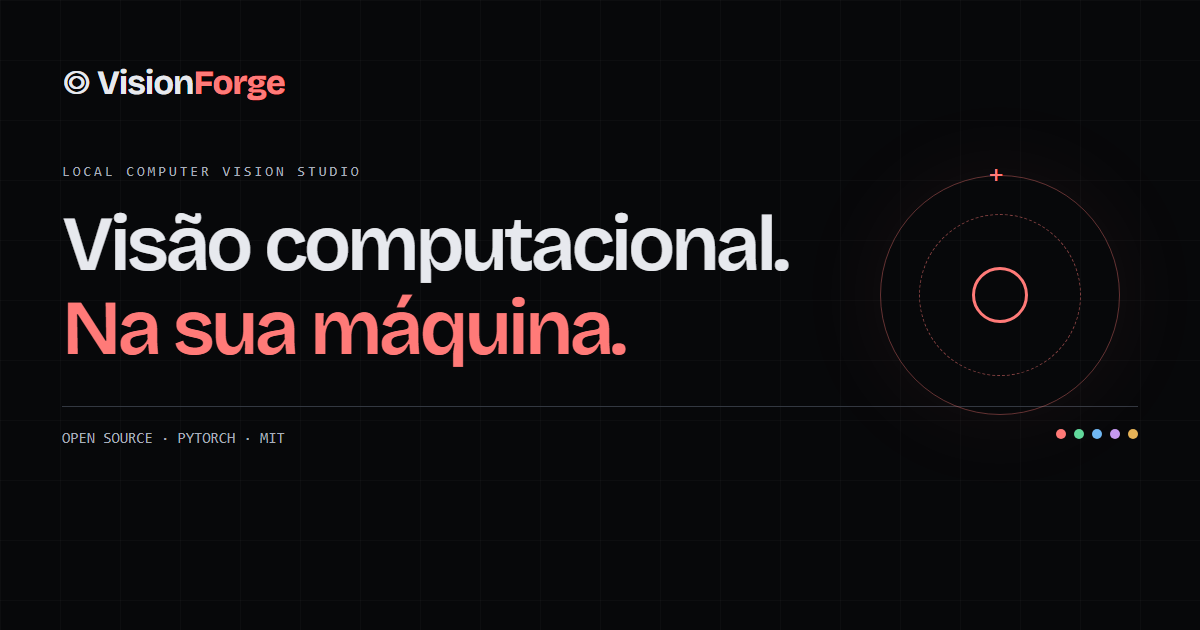
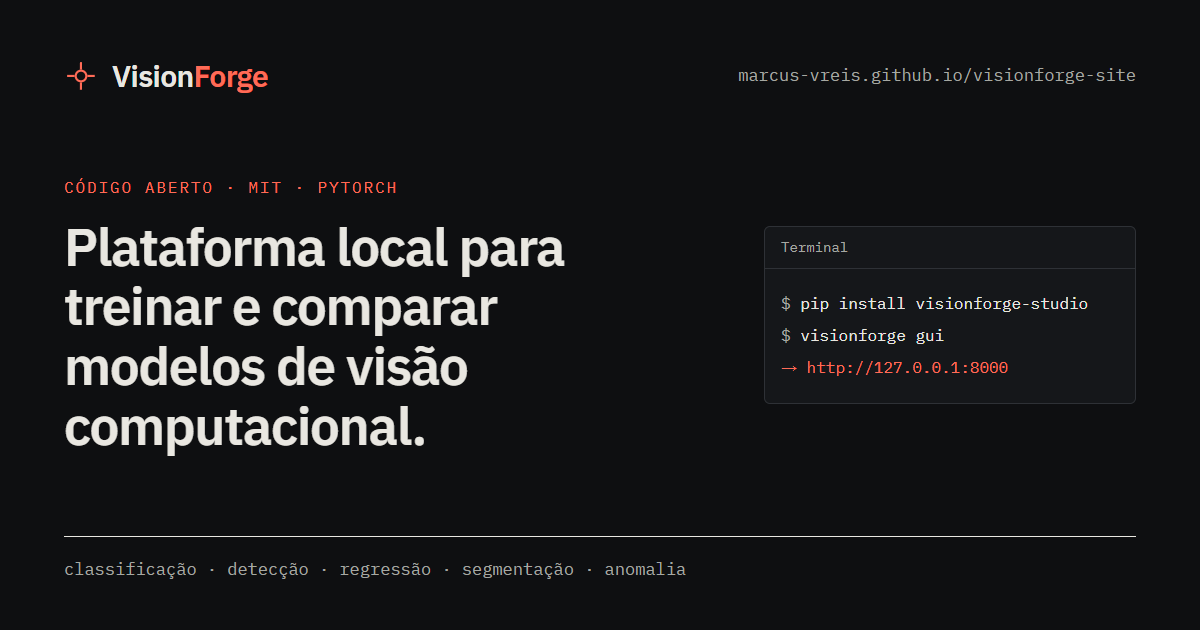
chore(site): refaz a imagem de link na tipografia atual
A imagem antiga ainda trazia o bordão retirado do site e a fonte
anterior ao redesenho.

- social.png (PT) e social-en.png (EN), 1200 × 630, com o título da
  apresentação, IBM Plex e os tokens do tema escuro
- scripts/social-image.mjs gera as duas a partir de pt.ts e en.ts
- og:image passa a seguir o idioma da página e ganha largura, altura
  e texto alternativo
- teste confere a imagem por idioma; procedência em docs/ASSETS.md

diff --git a/tests/site.spec.ts b/tests/site.spec.ts
@@ -18,6 +18,13 @@ for (const language of ['pt','en'] as const) {
     await expect(page.locator('h1')).toContainText(language === 'pt' ? 'Plataforma local para treinar e comparar modelos' : 'A local platform for training and comparing');
     for (const line of ['pip install visionforge-studio', 'visionforge doctor', 'visionforge selftest --quick', 'visionforge gui']) await expect(page.locator('.hero-terminal .t-cmd', { hasText: line }).first()).toBeAttached();
     await expect(page.locator('link[rel=canonical]')).toHaveAttribute('href',`https://marcus-vreis.github.io/visionforge-site/${language === 'en' ? 'en/' : ''}`);
+    // The link preview is in the page's language and is served as a 1200 px wide PNG.
+    const suffix = language === 'pt' ? '' : '-en';
+    await expect(page.locator('meta[property="og:image"]')).toHaveAttribute('content', `https://marcus-vreis.github.io/visionforge-site/images/social${suffix}.png`);
+    await expect(page.locator('meta[property="og:image:alt"]')).toHaveAttribute('content', /visão computacional|computer-vision/);
+    const preview = await page.request.get(`http://127.0.0.1:4322/visionforge-site/images/social${suffix}.png`);
+    expect(preview.headers()['content-type']).toContain('image/png');
+    expect((await preview.body()).readUInt32BE(16)).toBe(1200);
     await expect(page.locator('a[href$=".whl"]')).toHaveCount(1);
     await expect(page.locator('a[href$=".tar.gz"]')).toHaveCount(1);
     await page.evaluate(() => document.fonts.ready);

diff --git a/docs/ASSETS.md b/docs/ASSETS.md
@@ -5,7 +5,7 @@
   - `custom-task-{dark,light}.webp` and `custom-task-en-*`: the downloadable `research_method.py` in `user_tasks/`, Training step. Synthetic task, no result shown.
   - `replicates-{pt,en}-{dark,light}.webp`: regression, Strategy step with Replicates selected. No dataset, no training.
   - `colab-{pt,en}-{dark,light}.webp`: the Colab corner open, no CLI installed and no Google account; cropped to the header and the pop-over (CSS box 60, 0, 960, 270 → 1800 × 540 px).
-- `social.png`: website-specific typographic composition derived from its branding; not a product screenshot or experiment result.
+- `social.png` and `social-en.png`: link-preview images, 1200 × 630 px, rendered on 2026-11-14 by `scripts/social-image.mjs` from the hero title in `src/content/{pt,en}.ts`, the site's IBM Plex fonts and the dark-theme tokens. The terminal lines are the commands and the address of the installation guide. Typographic compositions, not product screenshots or experiment results.
 - `favicon.svg`: original simplified crosshair mark based on the product header's circular mark; the frontend starter favicon was not reused.
 - `src/content/runjson.ts`: lines of a real `run.json` written on 2026-11-12 by `visionforge run` for the digits case of the guides (120 images, 1 epoch, CPU, same checkout). Folded objects are shown as `{ … }`, and the start of `run_dir` is replaced by `…`; no value is altered. Its metrics are folded on purpose.
 - Interface replica (`Studio.astro`, `src/content/studio.ts`): original HTML and CSS, not a capture. Labels, colours, steps, strategies, models and defaults were read from the product's frontend and `utils/*config.py` at v0.21.0; it is labelled as a simplified demonstration and does not train.

diff --git a/README.md b/README.md
@@ -53,8 +53,9 @@ Para atualizar uma versão:
 1. Confira o release público e a mesma versão no PyPI; verifique os nomes dos arquivos de download.
 2. Leia `docs/INSTALL.md` do produto e o resultado do workflow `install-smoke.yml` correspondente. Ajuste comandos e limitações apenas com evidência.
 3. Atualize `release.ts`, incluindo `releasedOn`, a data de verificação e o link do teste; mova a versão anterior para `updates.ts`. Mantenha PT/EN consistentes.
-4. Se a interface mudou, capture novamente a GUI em um workspace vazio, em 2x (device scale factor 2), sem nomes/caminhos pessoais ou resultados inventados; atualize `docs/ASSETS.md`, as posições em `figures.ts` e os rótulos e padrões em `studio.ts`.
-5. Execute as verificações, revise o diff e faça o merge. O site preserva a versão anterior se o build ou os testes falharem.
+4. Se o título da apresentação ou a direção visual mudou, gere de novo as imagens de link com `node scripts/social-image.mjs`.
+5. Se a interface mudou, capture novamente a GUI em um workspace vazio, em 2x (device scale factor 2), sem nomes/caminhos pessoais ou resultados inventados; atualize `docs/ASSETS.md`, as posições em `figures.ts` e os rótulos e padrões em `studio.ts`.
+6. Execute as verificações, revise o diff e faça o merge. O site preserva a versão anterior se o build ou os testes falharem.
 
 Os downloads são pacotes Python (`.whl` e `.tar.gz`), não instaladores autônomos. O `pip install visionforge-studio` é a instalação recomendada. Os metadados de download são um snapshot revisado; o link de releases permite consultar versões mais recentes.
 
